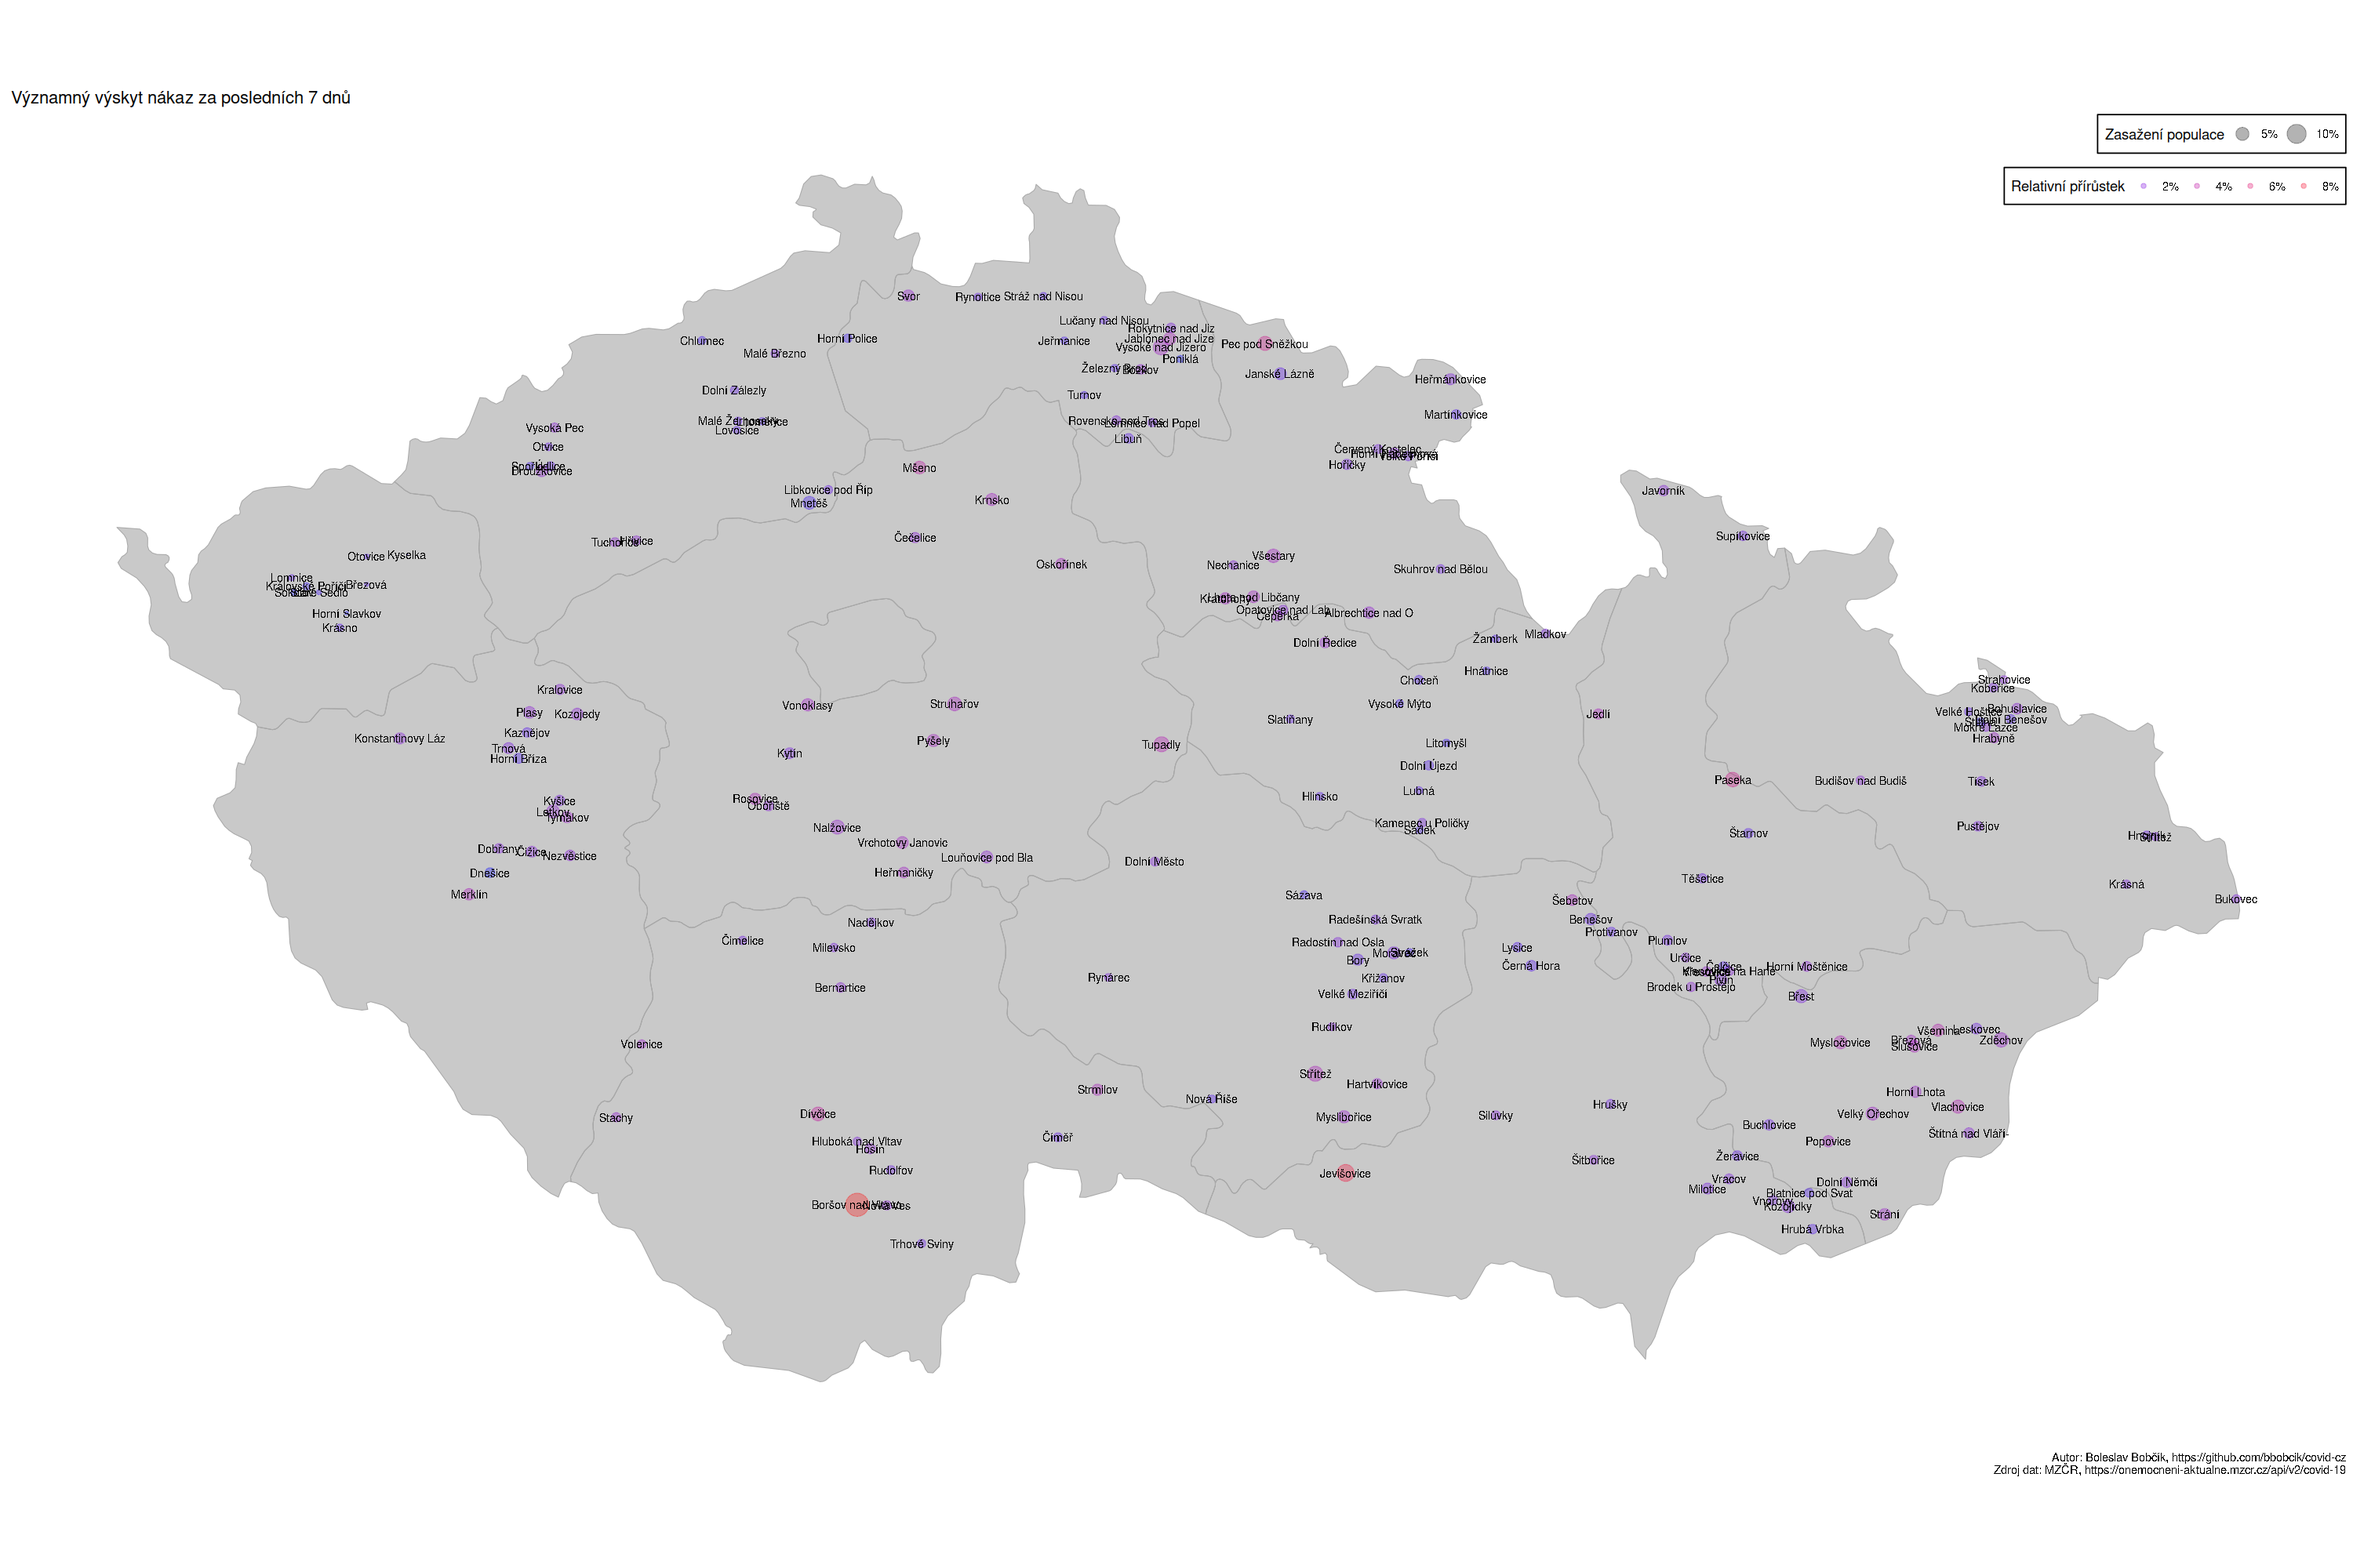
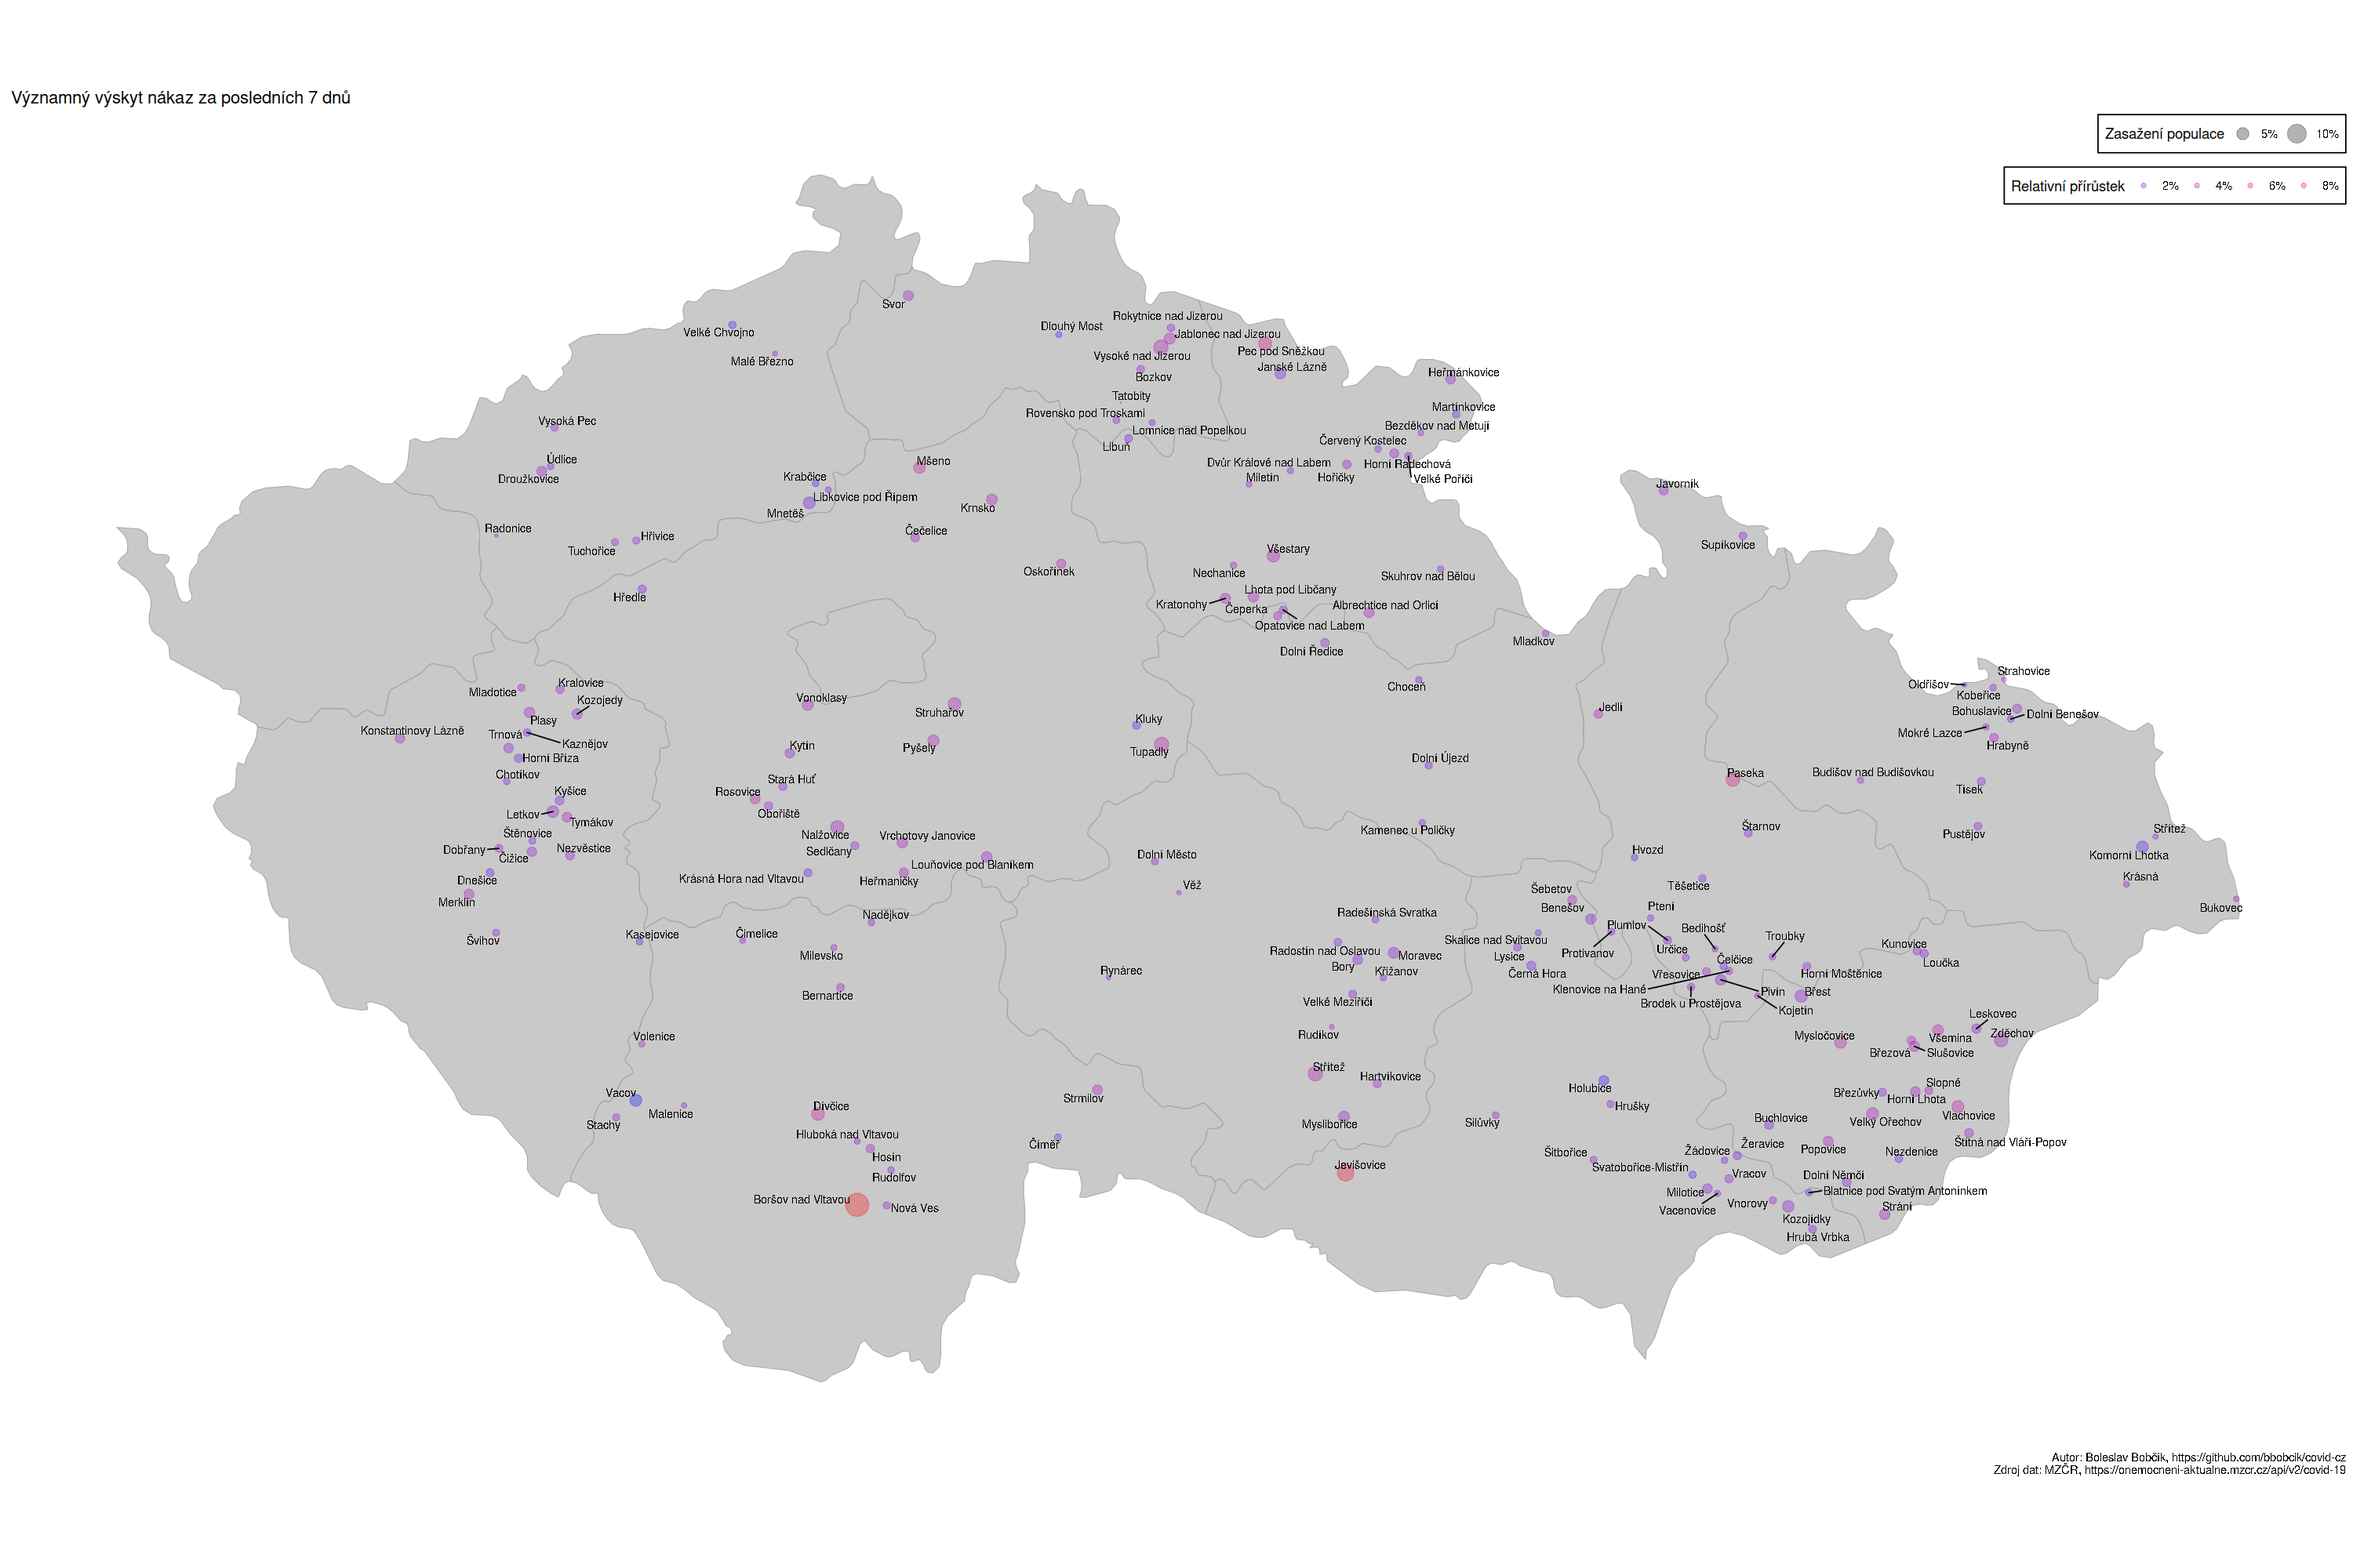
Improved hotspot map

diff --git a/README.md b/README.md
@@ -3,10 +3,14 @@
 
 ## Vyhodnocení předpovědi
 
-![Poslední předpověď](https://raw.githubusercontent.com/bbobcik/covid-cz/master/outputs/covid_forecast_eval_latest.png)
-
-Vysvětlivka: Tečky reprezentují datové údaje, ze kterých vychází předpověď. Křížky
+Tečky reprezentují datové údaje, ze kterých vychází předpověď. Křížky
 jsou pak údaje z následujících dnů, aby bylo možné sledovat kvalitu předpovědi.
+
+Upozornění: Předpověď exponenciálních trendů je mimořádně obtížná, zejména
+při nedostatku kvalitních vstupních dat. Nedoporučuji dělat z následujících
+předpovědí žádné významné závěry.
+
+![Poslední předpověď](https://raw.githubusercontent.com/bbobcik/covid-cz/master/outputs/covid_forecast_eval_latest.png)
 
 
 ## Regionální přehledy aktuální situace
@@ -15,6 +19,10 @@ jsou pak údaje z následujících dnů, aby bylo možné sledovat kvalitu před
 
 
 ## Lokální hotspoty
+
+Velikost bodu reprezentuje podíl infikovaných obyvatel v dané obci. Barva bodu
+odpovídá velikosti přírůstku případů za posledních 7 dnů (v poměru k počtu
+zdravých obyvatel).
 
 ![Lokální hotspoty](https://raw.githubusercontent.com/bbobcik/covid-cz/master/outputs/covid_hotspots_latest.png)
 
